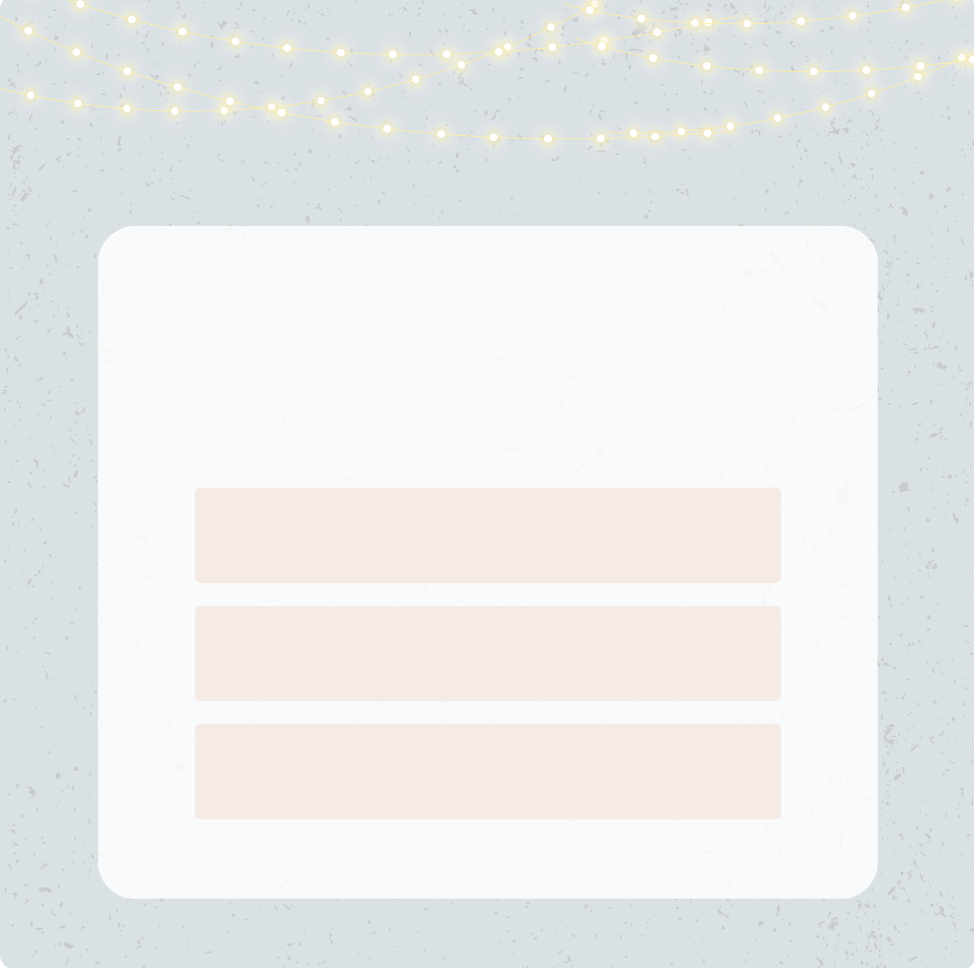
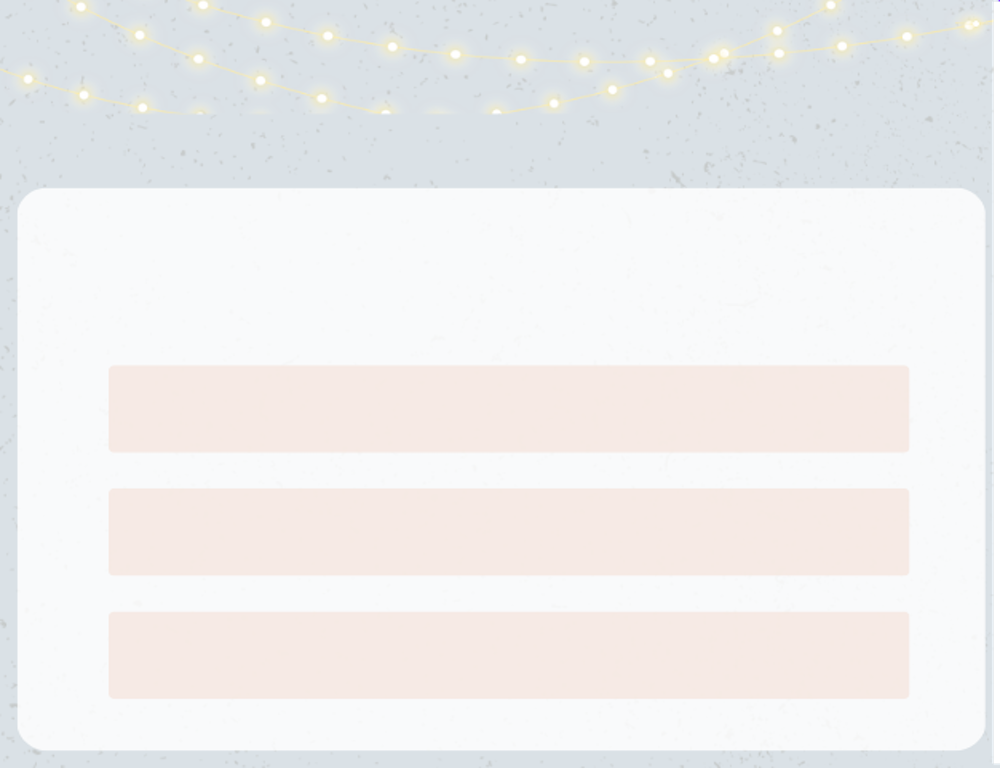
Epic and Final Changes to this project

diff --git a/main.py b/main.py
@@ -6,6 +6,7 @@ from PIL import Image, ImageTk
 from tkinter import FLAT
 
 
+
 class App(tk.Tk):
     def __init__(self, questions, options, answers, *args, **kwargs):
         super().__init__()
@@ -14,7 +15,7 @@ class App(tk.Tk):
         self.answers = answers
         self.questions_index = 0
         self.title("Personality Test!")
-        self.create_start_page()
+        self.create_start_page() 
 
     def create_start_page(self):
         # self.start_label = tk.Label(self, text="Welcome to the Personality Test Game!")
@@ -37,11 +38,17 @@ class App(tk.Tk):
         self.labeltext.pack(pady=(10, 50))
 
         self.img2 = PhotoImage(file="Images/Frame.png")
-
+      #name entry of the person!
         self.name_label = tk.Label(self, text="Please enter your name:")
         self.name_label.pack()
         self.name_entry = tk.Entry(self)
         self.name_entry.pack(pady=(2, 5))
+      #Email entry of the person 
+        self.email_label = tk.Label(self,text="Please Enter your Email ID:")
+        self.email_label.pack()
+        self.email_entry = tk.Entry(self)
+        self.email_entry.pack(pady=(2,6))
+
 
         self.btnStart = Button(
             self,
@@ -70,13 +77,28 @@ class App(tk.Tk):
             foreground="#FACA2F",
         )
         self.lblRules.pack()
+    
+
 
     def start_questionnaire(self):
+        global name 
+        global email 
+        name = self.name_entry.get()
+        email = self.email_entry.get()
+        if not name :
+            return
+        elif not email :
+            return 
+        else :
+            print("Name:- ",name)
+            print("Email:- ",email)
         # self.start_label.destroy()
         self.labelimage.destroy()
         self.labeltext.destroy()
         self.name_label.destroy()
         self.name_entry.destroy()
+        self.email_label.destroy()
+        self.email_entry.destroy()
         self.btnStart.destroy()
         self.lblInstruction.destroy()
         self.lblRules.destroy()
@@ -132,10 +154,10 @@ class App(tk.Tk):
         self.img = ImageTk.PhotoImage(Image.open("Images/QnAFrame.png"))
         self.img_label = tk.Label(self, image=self.img)
         self.img_label.pack()
-        self.geometry("{}x{}".format(self.img.width(), self.img.height()))
+        self.geometry("1000x768")
 
         self.question_label = ttk.Label(
-            self, text=self.questions[self.index], font=("Alegreya", 12), bg="#ffffff"
+            self, text=self.questions[self.index], font=("Alegreya", 18), bg="#ffffff",fg='black'
         )
         self.question_label.place(relx=0.5, rely=0.4, anchor="center")
 
@@ -145,37 +167,37 @@ class App(tk.Tk):
         self.option1_button = ttk.Radiobutton(
             self,
             text=self.options[self.index][0],
-            font=("Alegreya", 15),
+            font=("Alegreya", 18),
             bg="#F8E6DF",
             variable=self.var,
             value=self.options[self.index][0],
         )
-        self.option1_button.place(relx=0.5, rely=0.56, anchor="center")
+        self.option1_button.place(relx=0.5, rely=0.53, anchor="center")
 
         self.option2_button = ttk.Radiobutton(
             self,
             text=self.options[self.index][1],
-            font=("Alegreya", 15),
+            font=("Alegreya", 18),
             bg="#F8E6DF",
             variable=self.var,
             value=self.options[self.index][1],
         )
-        self.option2_button.place(relx=0.5, rely=0.68, anchor="center")
+        self.option2_button.place(relx=0.5, rely=0.69, anchor="center")
 
         self.option3_button = ttk.Radiobutton(
             self,
             text=self.options[self.index][2],
-            font=("Alegreya", 15),
+            font=("Alegreya", 18),
             bg="#F8E6DF",
             variable=self.var,
             value=self.options[self.index][2],
         )
-        self.option3_button.place(relx=0.5, rely=0.80, anchor="center")
+        self.option3_button.place(relx=0.5, rely=0.85, anchor="center")
 
         self.next_button = ttk.Button(
             self, text="Next", font=("Alegreya", 14), command=self.next_question
         )
-        self.next_button.place(relx=0.5, rely=0.89, anchor="center")
+        self.next_button.place(relx=0.5, rely=0.95, anchor="center")
 
     def handle_selection(self):
         selected_value = self.var.get()
@@ -213,7 +235,10 @@ class App(tk.Tk):
             )
             self.finish_button.place(relx=0.5, rely=0.89, anchor="center")
 
+
+
     def finish(self):
+        
 
         # removing all the above images and labels and questions
         self.img_label.destroy()
@@ -234,54 +259,107 @@ class App(tk.Tk):
 
         personality_descriptions = {
             # Architect
-            "INTJA": "Hello Your a ARCHITECT PERSON !",
-            "INTJT": "Hello Your a ARCHITECT PERSON !",
+            "INTJA": "Logic-driven and quick-witted, architects take pleasure in their independence of thought and in their remarkable ability to spot hypocrisy and phoniness.But because architects' minds are constantly working, it may be difficult to find people who can keep up with their constant analysis of their surroundings.These skilled strategists are detail-oriented perfectionists who approach all they do with creativity and reason. They frequently have a complex, secretive inner life.",
+            "INTJT": "Logic-driven and quick-witted, architects take pleasure in their independence of thought and in their remarkable ability to spot hypocrisy and phoniness.But because architects' minds are constantly working, it may be difficult to find people who can keep up with their constant analysis of their surroundings.These skilled strategists are detail-oriented perfectionists who approach all they do with creativity and reason. They frequently have a complex, secretive inner life.",
             # Logician
-            "INTPA": "Hello Your a LOGICIAN PERSON !",
-            "INTPT": "Hello Your a LOGICIAN PERSON !",
+            "INTPA": "Logicians take great satisfaction in their distinctive viewpoints and sharp intelligence. These adaptable brains relish approaching many facets of life in an unusual way. They are compelled to ponder the universe's mysteries, which may help to explain why some of the greatest thinkers and scientists in history were logicians. Despite being a relatively uncommon personality type, Logicians aren't scared to stand out from the crowd thanks to their originality and inventiveness. They frequently take unconventional turns, fusing openness to trying new things with individual ingenuity.",
+            "INTPT": "Logicians take great satisfaction in their distinctive viewpoints and sharp intelligence. These adaptable brains relish approaching many facets of life in an unusual way. They are compelled to ponder the universe's mysteries, which may help to explain why some of the greatest thinkers and scientists in history were logicians. Despite being a relatively uncommon personality type, Logicians aren't scared to stand out from the crowd thanks to their originality and inventiveness. They frequently take unconventional turns, fusing openness to trying new things with individual ingenuity.",
             # Commander
-            "ENTJA": "Hello Your a COMMANDER PERSON !",
-            "ENTJT": "Hello Your a COMMANDER PERSON !",
+            "ENTJA": "Commanders are natural-born leaders. This personality type is an epitome of charisma and self-assurance, and they project authority in a way that unites people around a shared cause. However, Commanders also exhibit a callous level of reasoning that they frequently employ in order to accomplish whatever goals they have set for themselves.They are incisive individuals that cherish forward motion and success. To build their imaginative visions, they absorb facts, but they rarely ponder them for very long before acting on them.",
+            "ENTJT": "Commanders are natural-born leaders. This personality type is an epitome of charisma and self-assurance, and they project authority in a way that unites people around a shared cause. However, Commanders also exhibit a callous level of reasoning that they frequently employ in order to accomplish whatever goals they have set for themselves.They are incisive individuals that cherish forward motion and success. To build their imaginative visions, they absorb facts, but they rarely ponder them for very long before acting on them.",
             # Debator
-            "ENTPA": "Hello Your a DEBATOR PERSON !",
-            "ENTPT": "Hello Your a DEBATOR PERSON !",
+            "ENTPA": "Debaters don't hesitate to challenge the established quo. With a light sense of humor, this personality type's members are knowledgeable, inquisitive, and can be very entertaining. They only have an eccentric, divergent conception of enjoyment that includes a healthy serving of lively discussion.They frequently take risks and are highly creative, capable of quickly analyzing and reconstructing concepts. Regardless of any opposition they may experience, they persistently pursue their goals.",
+            "ENTPT": "Debaters don't hesitate to challenge the established quo. With a light sense of humor, this personality type's members are knowledgeable, inquisitive, and can be very entertaining. They only have an eccentric, divergent conception of enjoyment that includes a healthy serving of lively discussion.They frequently take risks and are highly creative, capable of quickly analyzing and reconstructing concepts. Regardless of any opposition they may experience, they persistently pursue their goals.",
             # Advocate
-            "INFJA": "Hello Your a ADVOCATE PERSON !",
-            "INFJT": "Hello Your a ADVOCATE PERSON !",
+            "INFJA": "Even though advocates (INFJs) are the least common personality type of all, they create a lasting impression on society. They want to stand upand change the world because they are idealistic and have strong morals. Success for Advocate personalities comes from finding satisfaction, helping others, and becoming a force for good in the world rather than from wealth or position.Although they have high ideals and desires, advocates are not idle daydreamers. Integrity is important to people with this personality type, and they are rarely happy until they have followed their moral convictions. They are deeply moral people who make decisions in life based on their own wisdom and intuition.!",
+            "INFJT": "Even though advocates (INFJs) are the least common personality type of all, they create a lasting impression on society. They want to stand upand change the world because they are idealistic and have strong morals. Success for Advocate personalities comes from finding satisfaction, helping others, and becoming a force for good in the world rather than from wealth or position.Although they have high ideals and desires, advocates are not idle daydreamers. Integrity is important to people with this personality type, and they are rarely happy until they have followed their moral convictions. They are deeply moral people who make decisions in life based on their own wisdom and intuition.",
             # Mediator
-            "INFPA": "Hello Your a MEDIATOR PERSON !",
-            "INFPT": "Hello Your a MEDIATOR PERSON !",
+            "INFPA": "Although Mediators may come out as reserved or unassuming, they actually have a vibrant, passionate inner life. They cheerfully lose themselves indaydreams, constructing all kinds of stories and discussions in their imaginative and creative brains. These individuals are renowned for theirsensitivity; mediators are capable of experiencing intense emotional reactions to music, art, the natural world, and others around them.Idealistic and compassionate, Mediators want for meaningful connections with people and feel compelled to lend a hand.",
+            "INFPT": "Although Mediators may come out as reserved or unassuming, they actually have a vibrant, passionate inner life. They cheerfully lose themselves indaydreams, constructing all kinds of stories and discussions in their imaginative and creative brains. These individuals are renowned for theirsensitivity; mediators are capable of experiencing intense emotional reactions to music, art, the natural world, and others around them.Idealistic and compassionate, Mediators want for meaningful connections with people and feel compelled to lend a hand.",
             # Protagonist
-            "ENFJA": "Hello Your a PROTAGONIST PERSON !",
-            "ENFJT": "Hello Your a PROTAGONIST PERSON !",
+            "ENFJA": "The protagonists are driven to fulfill a higher calling in life. These personality types are thoughtful and idealistic, and they want to make the world a better place for everyone. Even when it is extremely difficult to do the right thing, they rarely hesitate to do it.Protagonists are natural leaders, which explains why so many eminent politicians, coaches, and educators have personalities like this. Their enthusiasm and charm enable them to motivate people not only in their professional lives but also in all facets of their personal lives, also including their relationships.",
+            "ENFJT": "The protagonists are driven to fulfill a higher calling in life. These personality types are thoughtful and idealistic, and they want to make the world a better place for everyone. Even when it is extremely difficult to do the right thing, they rarely hesitate to do it.Protagonists are natural leaders, which explains why so many eminent politicians, coaches, and educators have personalities like this. Their enthusiasm and charm enable them to motivate people not only in their professional lives but also in all facets of their personal lives, also including their relationships.",
             # Campaigner
-            "ENFPA": "Hello Your a CAMPAIGNER PERSON !",
-            "ENFPT": "Hello Your a CAMPAIGNER PERSON !",
+            "ENFPA": "True free spirits, campaigners are extroverted, kind hearted, and open-minded. They distinguish themselves from the throng by their vibrant, positive outlook on life. These people frequently support radical concepts and take steps that show their feeling of optimism and compassion toward others.Their vibrant energy can flow in many multiple directions. However, despite the fact that they can be the life of the party, campaigners aren't only interested in having fun. The desire for profound, emotional relationships with others runs deep within this personality type.",
+            "ENFPT": "True free spirits, campaigners are extroverted, kind hearted, and open-minded. They distinguish themselves from the throng by their vibrant, positive outlook on life. These people frequently support radical concepts and take steps that show their feeling of optimism and compassion toward others.Their vibrant energy can flow in many multiple directions. However, despite the fact that they can be the life of the party, campaigners aren't only interested in having fun. The desire for profound, emotional relationships with others runs deep within this personality type.",
             # Logistician
-            "ISTJA": "Hello Your a LOGISTICIAN PERSON !",
-            "ISTJT": "Hello Your a LOGISTICAN PERSON !",
+            "ISTJA": "Logisticians take great pride in their honesty. When they make a commitment to doing something, people with this personality type make sure to follow through. These folks typically have a restrained yet determined demeanor and a realistic attitude on life. Despite not being particularly showy or attention-seeking, logisticians contribute significantly to maintaining society's solid, secure foundation. Because of their dependability, practicality, and capacity to remain rational and grounded under pressure, logisticians frequently gain the respect of their families and communities. They carefully plan out their actions and execute them with a systematic purpose.",
+            "ISTJT": "Logisticians take great pride in their honesty. When they make a commitment to doing something, people with this personality type make sure to follow through. These folks typically have a restrained yet determined demeanor and a realistic attitude on life. Despite not being particularly showy or attention-seeking, logisticians contribute significantly to maintaining society's solid, secure foundation. Because of their dependability, practicality, and capacity to remain rational and grounded under pressure, logisticians frequently gain the respect of their families and communities. They carefully plan out their actions and execute them with a systematic purpose.",
             # Defender
-            "ISFJA": "Hello Your a DEFENDER PERSON !",
-            "ISFJT": "Hello Your a DEFENDER PERSON !",
+            "ISFJA": "Defenders contribute to the smooth operation of the world in their quiet, unobtrusive way. People with this personality type are dedicated and hardworking, and they have a strong feeling of duty to those under their care. Defenders can be relied upon to keep appointments, remember birthdays and other important dates, protect customs, and show their loved ones compassion and support. But despite everything they accomplish, they hardly ever take credit for it, preferring to work in the background. This personality type is capable, self-sufficient, and endowed with many flexible talents.Defenders are compassionate and empathetic, but they also have a keen analytical mind and attention to detail. In addition, despite their reserve, they frequently possess strong interpersonal abilities. Defenders are truly greater than the sum of their parts, and even in the most mundane areas of their everyday life, their diverse abilities are evident",
+            "ISFJT": "Defenders contribute to the smooth operation of the world in their quiet, unobtrusive way. People with this personality type are dedicated and hardworking, and they have a strong feeling of duty to those under their care. Defenders can be relied upon to keep appointments, remember birthdays and other important dates, protect customs, and show their loved ones compassion and support. But despite everything they accomplish, they hardly ever take credit for it, preferring to work in the background. This personality type is capable, self-sufficient, and endowed with many flexible talents.Defenders are compassionate and empathetic, but they also have a keen analytical mind and attention to detail. In addition, despite their reserve, they frequently possess strong interpersonal abilities. Defenders are truly greater than the sum of their parts, and even in the most mundane areas of their everyday life, their diverse abilities are evident",
             # Executive
-            "ESTJA": "Hello Your a EXECUTIVE PERSON !",
-            "ESTJT": "Hello Your a EXECUTIVE PERSON !",
+            "ESTJA": "Executives serve as stewards of tradition and law, using their knowledge of right and wrong and what is socially acceptable to unite families andcommunities. People with the Executive personality type embrace the virtues of integrity, commitment, and dignity. They are regarded for their precise advice and guidance, and they gladly take the lead on tough pathways. Executives, who take satisfaction in bringing people together, frequently take on roles as community organizers, working hard to unite everyone in support of the traditional values that keep families and communities together or in celebration of beloved local events.They have a strong will and steadfastly rely on their own common sense. They frequently act as a calming influence among others, able to provide firm guidance in the face of difficulty.!",
+            "ESTJT": "Executives serve as stewards of tradition and law, using their knowledge of right and wrong and what is socially acceptable to unite families andcommunities. People with the Executive personality type embrace the virtues of integrity, commitment, and dignity. They are regarded for their precise advice and guidance, and they gladly take the lead on tough pathways. Executives, who take satisfaction in bringing people together, frequently take on roles as community organizers, working hard to unite everyone in support of the traditional values that keep families and communities together or in celebration of beloved local events.They have a strong will and steadfastly rely on their own common sense. They frequently act as a calming influence among others, able to provide firm guidance in the face of difficulty.",
             # Consul
-            "ESFJA": "Hello Your a CONSUL PERSON !",
-            "ESFJT": "Hello Your a CONSUL PERSON !",
+            "ESFJA": "Life is sweetest for Consuls when it is shared with others. Many communities are built on the backs of people of this personality type who welcome friends, family, and neighbors into their homes and hearts. This does not imply that Consuls are saints or that they are tolerant of all people.However, consuls have a tendency to feel a feeling of obligation to those around them and do believe in the power of hospitality and politeness.Generous and trustworthy, those who fit this personality type frequently take it upon themselves to keep their families and communities together in both big and small ways.",
+            "ESFJT": "Life is sweetest for Consuls when it is shared with others. Many communities are built on the backs of people of this personality type who welcome friends, family, and neighbors into their homes and hearts. This does not imply that Consuls are saints or that they are tolerant of all people.However, consuls have a tendency to feel a feeling of obligation to those around them and do believe in the power of hospitality and politeness.Generous and trustworthy, those who fit this personality type frequently take it upon themselves to keep their families and communities together in both big and small ways.",
             # Virtuoso
-            "ISTPA": "Hello Your a VIRTUOSO PERSON !",
-            "ISTJT": "Hello Your a VIRTUOSO PERSON !",
+            "ISTPA": "Virtuosos enjoy exploring and examining their surroundings with a combination of enthusiastic curiosity and logic and rationality. This personality type is naturally creative, jumping from project to project, creating the required and superfluous just for pleasure, and absorbing information from their surroundings. They investigate concepts through creation, problem-solving, trial and error, and first-hand experience. They take pleasure in having others show an interest in their work and occasionally don't mind someone invading their personal space.Virtuosos take pleasure in helping others and imparting their knowledge, especially to those they care about. They frequently have an autonomousoutlook and pursue their goals with little help from others. They approach life with curiosity and individual skill, changing their strategy asnecessary.",
+            "ISTJT": "Virtuosos enjoy exploring and examining their surroundings with a combination of enthusiastic curiosity and logic and rationality. This personality type is naturally creative, jumping from project to project, creating the required and superfluous just for pleasure, and absorbing information from their surroundings. They investigate concepts through creation, problem-solving, trial and error, and first-hand experience. They take pleasure in having others show an interest in their work and occasionally don't mind someone invading their personal space.Virtuosos take pleasure in helping others and imparting their knowledge, especially to those they care about. They frequently have an autonomousoutlook and pursue their goals with little help from others. They approach life with curiosity and individual skill, changing their strategy asnecessary.",
             # Adventure
-            "ISFPA": "Hello Your a ADVENTURE PERSON !",
-            "ISFPT": "Hello Your a ADVENTURE PERSON !",
+            "ISFPA": "Adventurers are real artists, but perhaps not always in the traditional sense. Life itself serves as the canvas for this personality type's artistic expression. They behave in a way that vividly reflects who they are as distinct individuals, from what they wear to how they use their free time.And each Adventurer is undoubtedly different. People with this mentality tend to have a wide variety of passions and interests since they are driven by curiosity and eager to experience new things.They typically embrace life, new experiences, and people with an open mind and a grounded friendliness. They discover intriguing possibilities thanksto their capacity for mindfulness. Adventurers might be among the most fascinating individuals you'll ever meet thanks to their curiosity and capacity for joy.",
+            "ISFPT": "Adventurers are real artists, but perhaps not always in the traditional sense. Life itself serves as the canvas for this personality type's artistic expression. They behave in a way that vividly reflects who they are as distinct individuals, from what they wear to how they use their free time.And each Adventurer is undoubtedly different. People with this mentality tend to have a wide variety of passions and interests since they are driven by curiosity and eager to experience new things.They typically embrace life, new experiences, and people with an open mind and a grounded friendliness. They discover intriguing possibilities thanksto their capacity for mindfulness. Adventurers might be among the most fascinating individuals you'll ever meet thanks to their curiosity and capacity for joy.",
             # Entreprenuer
-            "ESTPA": "Hello Your a ENTREPRENUER PERSON !",
-            "ESTPT": "Hello Your a ENTREPRENUER PERSON !",
+            "ESTPA": "The best way to identify an entrepreneur at a party is to look for the swirling whirlpool of individuals flying about them as they travel from group to group. Entrepreneurs always have an impact on their immediate surroundings. Entrepreneur personalities enjoy making people laugh and smile with their candid, down-to-earth humor. They also enjoy being the center of attention. Entrepreneurs offer to go on stage if requested, or they offer to bring a shy buddy.They keep the discourse lively and intelligent, yet they prefer to talk about the present rather than simply acting on it. Entrepreneurs don't wait around, planning backup plans and escape routes; they leap before they look and correct their flaws as they go.",
+            "ESTPT": "The best way to identify an entrepreneur at a party is to look for the swirling whirlpool of individuals flying about them as they travel from group to group. Entrepreneurs always have an impact on their immediate surroundings. Entrepreneur personalities enjoy making people laugh and smile with their candid, down-to-earth humor. They also enjoy being the center of attention. Entrepreneurs offer to go on stage if requested, or they offer to bring a shy buddy.They keep the discourse lively and intelligent, yet they prefer to talk about the present rather than simply acting on it. Entrepreneurs don't wait around, planning backup plans and escape routes; they leap before they look and correct their flaws as they go.",
             # Entertainer
-            "ESFPA": "Hello Your a ENTERTAINER PERSON !",
-            "ESFPT": "Hello Your a ENTERTAINER PERSON !",
+            "ESFPA": "The Entertainer personality type is the one most likely to break into song and dance on their own. When something exciting happens, entertainers become engrossed in it and want everyone else to share their excitement. When it comes to motivating others, no personality type gives as much of their time and energy as Entertainers do, and no personality type does it with such enticing style.These people like exciting adventures, live life to the fullest, and relish learning new things.",
+            "ESFPT": "The Entertainer personality type is the one most likely to break into song and dance on their own. When something exciting happens, entertainers become engrossed in it and want everyone else to share their excitement. When it comes to motivating others, no personality type gives as much of their time and energy as Entertainers do, and no personality type does it with such enticing style.These people like exciting adventures, live life to the fullest, and relish learning new things.",
             # all ur 16 possible types
+        }
+
+        personality_list = {
+            # Architect
+            "INTJA": "ARCHITECT",
+            "INTJT": "ARCHITECT",
+            # Logician
+            "INTPA": "LOGICIAN",
+            "INTPT": "LOGICIAN",
+            # Commander
+            "ENTJA": "COMMANDER",
+            "ENTJT": "COMMANDER",
+            # Debator
+            "ENTPA": "DEBATOR",
+            "ENTPT": "DEBATOR",
+            # Advocate
+            "INFJA": "ADVOCATE",
+            "INFJT": "ADVOCATE",
+            # Mediator
+            "INFPA": "MEDIATOR",
+            "INFPT": "MEDIATOR",
+            # Protagonist
+            "ENFJA": "PROTAGONIST",
+            "ENFJT": "PROTAGONIST",
+            # Campaigner
+            "ENFPA": "CAMPAIGNER",
+            "ENFPT": "CAMPAIGNER",
+            # Logistician
+            "ISTJA": "LOGISTICIAN",
+            "ISTJT": "LOGISTICIAN",
+            # Defender
+            "ISFJA": "DEFENDER",
+            "ISFJT": "DEFENDER",
+            # Executive
+            "ESTJA": "EXECUTIVE",
+            "ESTJT": "EXECUTIVE",
+            # Consul
+            "ESFJA": "CONSULTANT",
+            "ESFJT": "CONSULTANT",
+            # Virtuoso
+            "ISTPA": "VIRTUOSO",
+            "ISTJT": "VIRTUOSO",
+            # Adventure
+            "ISFPA": "ADVENTURE",
+            "ISFPT": "ADVENTURE",
+            # Entreprenuer
+            "ESTPA": "ENTREPRENUER",
+            "ESTPT": "ENTREPRENUER",
+            # Entertainer
+            "ESFPA": "ENTERTAINER",
+            "ESFPT": "ENTERTAINER",
+            # all ur 16 possible types
+
         }
 
         # 1  Introvert - Extrovert
@@ -306,7 +384,7 @@ class App(tk.Tk):
             personality.append("F")
         else:
             print("Thinking - [T]!")
-            personality.append("I")
+            personality.append("T")
 
         # 4 Judging - Prospecting
         if self.answers[9:12].count(2) >= 0:
@@ -326,24 +404,33 @@ class App(tk.Tk):
 
         personality_str = "".join(personality)
         personality_desc = personality_descriptions[personality_str]
+        personality_name = personality_list[personality_str]
         print(personality)
         print(personality_str)
         print(f"Your personality is {personality_str}")
+        print(personality_name)
         print(personality_desc)
 
         # GUI Design of the page
-        self.title("Finale!")
+        self.title("Result!")
 
         self.img4 = ImageTk.PhotoImage(Image.open("Images/FinalFrame.png"))
         self.img_label1 = tk.Label(self, image=self.img4)
         self.img_label1.pack()
-        self.geometry("{}x{}".format(self.img4.width(), self.img4.height()))
+        self.geometry("1000x768")
+        self.font1 = ('arial',80)
+        self.font2 = ('arial',24)
 
-        self.textbox = tk.Text(self, height=5, width=30)
-        self.textbox.pack()
+        self.TextBox1 = tk.Text(self,font=self.font1, height=1, width=15,wrap=tk.WORD,fg="black", bg="#C1E7E3")
+        self.TextBox1.place(x=230,y=300)
+        self.TextBox1.insert(tk.END,personality_name)
 
-        personality_detail = personality_descriptions[personality_str]
-        self.textbox.insert(tk.END, personality_detail)
+        self.TextBox2 = tk.Text(self,font=self.font2, height=10, width=50,wrap=tk.WORD,fg="black", bg="#E6FCFA")
+        self.TextBox2.place(x=130,y=425)
+        self.TextBox2.insert(tk.END,personality_desc)
+    
+
+        
 
 
 if __name__ == "__main__":
